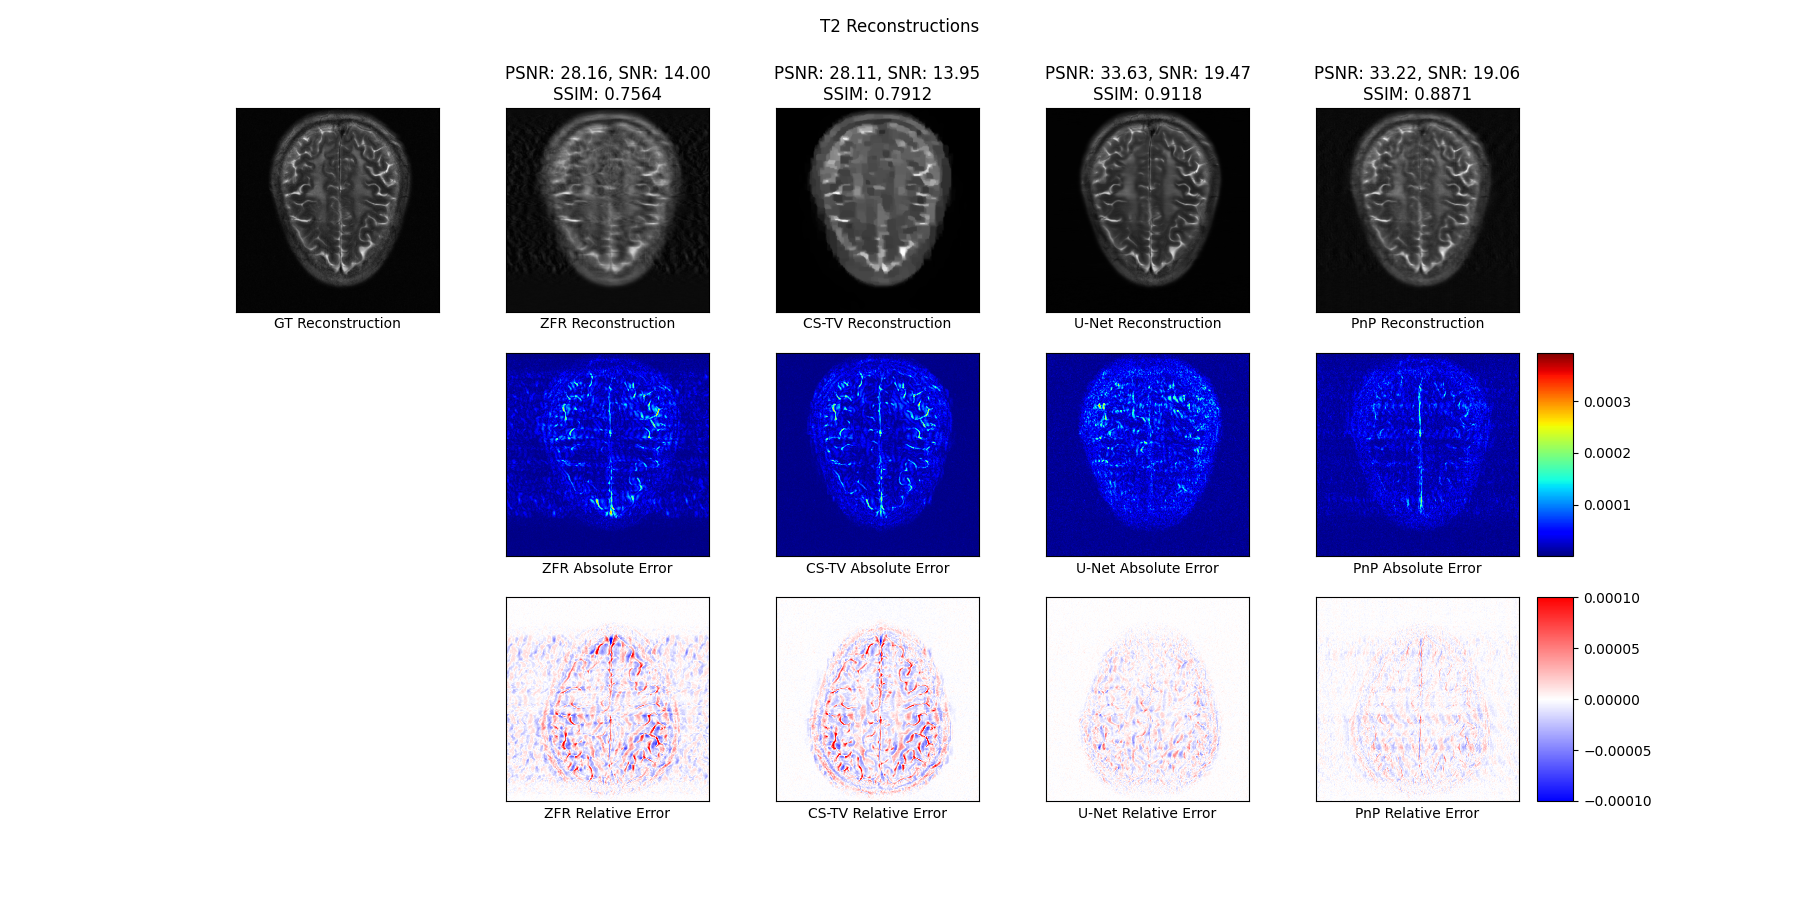
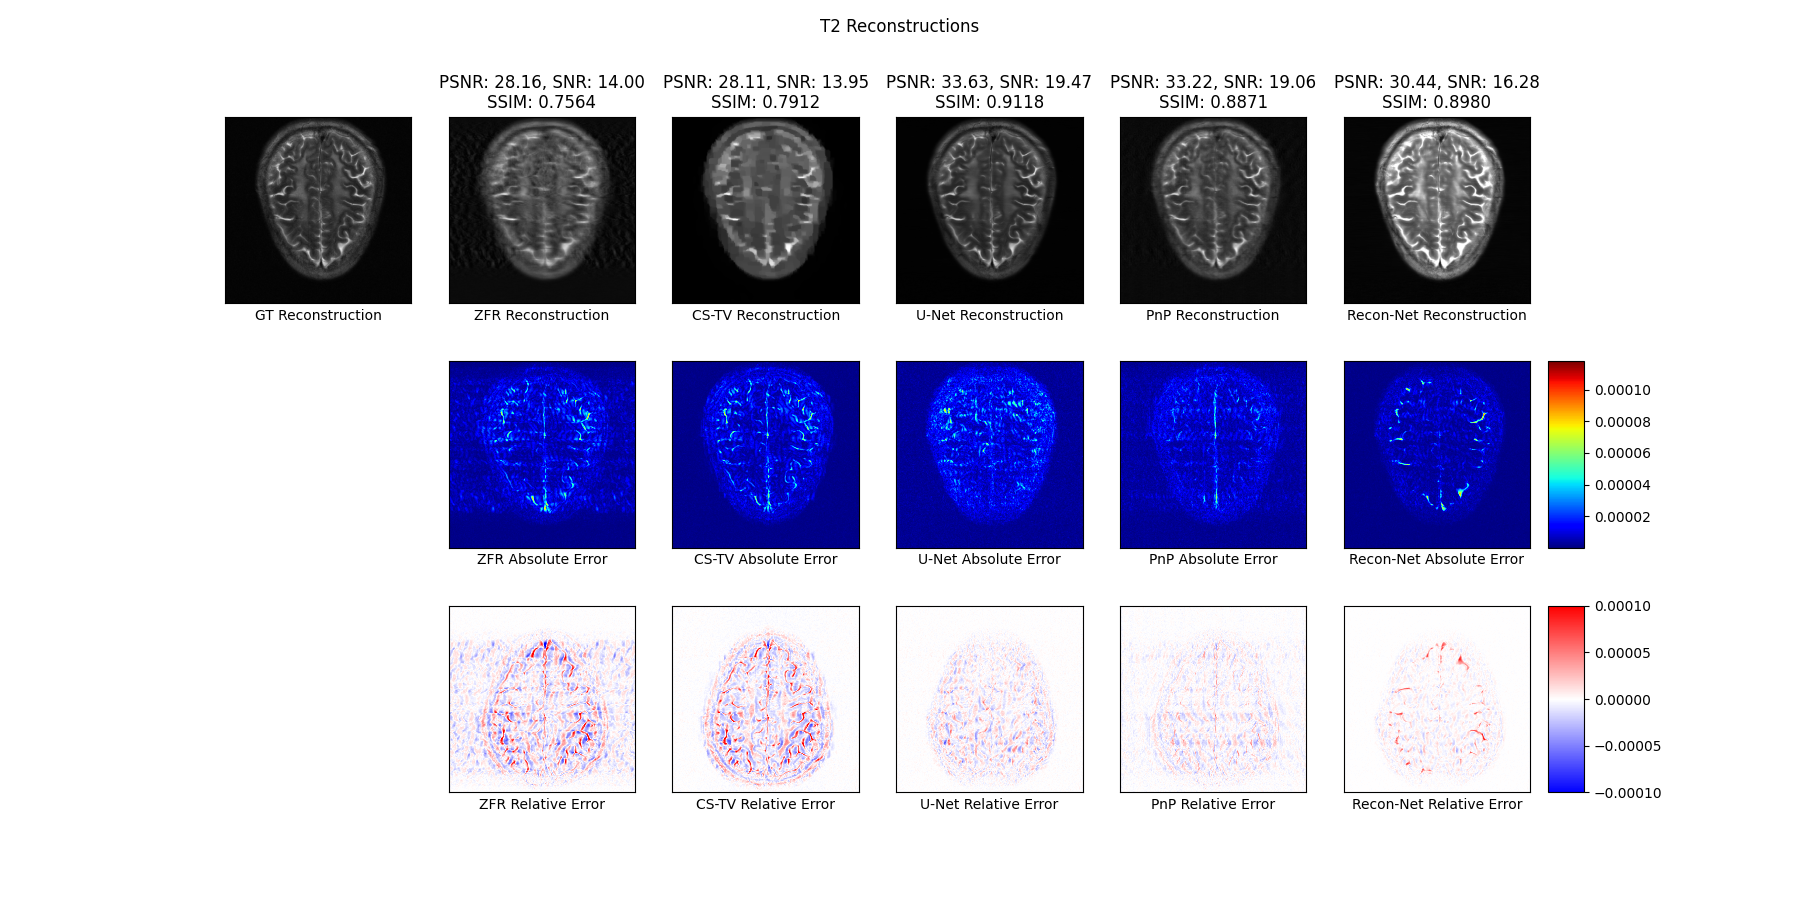
All changes for gan

Changed region(s): [[0.1244, 0.0622, 0.9333, 0.6533], [0.2489, 0.6844, 0.7156, 0.9333], [0.7467, 0.6533, 0.9333, 0.9333]]

diff --git a/cs-mri-gan-master/test_model.py b/cs-mri-gan-master/test_model.py
@@ -182,16 +182,24 @@ class DataTransform(object):
     def __call__(self, kspace, mask, target, attrs, fname, slice):
         kspace = T.to_tensor(kspace)
         mask = get_gro_mask(kspace.shape)
-        masked_kspace = (kspace * mask + 0.0)
-        # Inverse Fourier Transform to get zero filled solution
-        image = fastmri.ifft2c(masked_kspace)
-        image = fastmri.complex_abs(image)
+        masked_kspace = (kspace * mask) + 0.0
 
         target = fastmri.ifft2c(kspace)
-        target = T.complex_center_crop(target, (320,320))
-        target = fastmri.complex_abs(target)
+        image = fastmri.ifft2c(masked_kspace)
 
-        return (np.expand_dims(np.expand_dims(image.numpy(), axis=-1), axis=0), mask, target.numpy(), fname, slice)
+        target = fastmri.complex_abs(target).numpy() 
+        
+        max_val = np.max(target)
+
+        target = target / max_val * 2
+        image = tensor_to_complex_np(image) / max_val * 2
+
+        image = np.expand_dims(image, axis=-1)
+        usam_real = image.real
+        usam_imag = image.imag
+
+        u_sampled_data_2c = np.concatenate((usam_real, usam_imag), axis=-1)
+        return (u_sampled_data_2c, mask, target, fname, slice)
 
 def save_outputs(outputs, output_path):
     """Saves reconstruction outputs to output_path."""
@@ -214,20 +222,18 @@ def save_outputs(outputs, output_path):
 
 def test_method(idx, gen):
     zfr, mask, target, fname, slice_num = dataset[idx] 
+
     start_time = time.perf_counter()
-
-    prediction = gen4.predict(zfr)
-    prediction = np.squeeze(np.squeeze(prediction, axis=0), axis=-1)
-
-    plt.imshow(np.abs(prediction), cmap='gray')
-    plt.savefig('test_33.png')
+    prediction = gen4.predict(np.expand_dims(zfr, axis=0))
 
     recon_time = time.perf_counter() - start_time
+    psnr, ssim = metrics(np.expand_dims(target,axis=0),prediction[:,:,:,0],2.0)
+    print(f'PSNR: {psnr}, SSIM: {ssim}')
     
     return fname, slice_num, prediction, recon_time
 
 
-os.environ["CUDA_VISIBLE_DEVICES"] = "" #"0,1,2,3"
+os.environ["CUDA_VISIBLE_DEVICES"] = "0,1,2,3"
 
 if __name__ == '__main__':
     data_path = '/storage/fastMRI_brain/data/Matt_preprocessed_data/T2'
@@ -240,15 +246,41 @@ if __name__ == '__main__':
 
     outputs = []
 
-    inp_shape = (320, 320, 1)
+    inp_shape = (320, 320, 2)
     gen4 = generator(inp_shape=inp_shape, trainable=False)
 
-    filename = '/home/bendel.8/Git_Repos/ComparisonStudy/cs-mri-gan-master/gen_weights_a5_0033.h5'
+    filename = '/home/bendel.8/Git_Repos/ComparisonStudy/cs-mri-gan-master/gen_weights_a5_0303.h5'
     gen4.load_weights(filename)
 
-    #for i in range(len(dataset)):
-    outputs.append(test_method(0, gen4))
-    exit()
-    save_reconstructions(outputs, pathlib.Path('out'))
+    for i in range(len(dataset)):
+        outputs.append(test_method(i, gen4))
 
+    save_outputs(outputs, pathlib.Path('out'))
 
+'''
+data_path = 'testing_gt.pickle'  # Ground truth
+usam_path = 'testing_usamp.pickle'  # Zero-filled reconstructions
+
+df = open(data_path, 'rb')
+uf = open(usam_path, 'rb')
+
+dataset_real = np.asarray(pickle.load(df), dtype='float32')
+print(f'REAL IMAGES: {len(dataset_real)}, SHAPE: {dataset_real[0].shape}')
+
+u_sampled_data = np.expand_dims(pickle.load(uf), axis=-1)
+usam_real = u_sampled_data.real
+usam_imag = u_sampled_data.imag
+
+u_sampled_data_2c = np.concatenate((usam_real, usam_imag), axis=-1)
+print(f'USAMP IMAGES: {len(u_sampled_data_2c)}, SHAPE: {u_sampled_data_2c[0].shape}')
+
+inp_shape = (320, 320, 2)
+gen4 = generator(inp_shape=inp_shape, trainable=False)
+
+filename = '/home/bendel.8/Git_Repos/ComparisonStudy/cs-mri-gan-master/gen_weights_a5_0303.h5'
+gen4.load_weights(filename)
+
+preds = gen4.predict(u_sampled_data_2c)
+psnr, ssim = metrics(dataset_real, preds[:,:,:,0], 2.0)
+print(psnr)
+'''

diff --git a/generate_plots.py b/generate_plots.py
@@ -10,7 +10,7 @@ from pathlib import Path
 os.environ['KMP_DUPLICATE_LIB_OK']='True'
 
 rows = 3
-cols = 5
+cols = 6
 
 def get_psnr(gt, pred):
     maxval = gt.max()
@@ -86,7 +86,9 @@ for fname in tqdm(list(data_dir.glob("*.h5"))):
             h5py.File(f'/home/bendel.8/Git_Repos/ComparisonStudy/base_cs/out/{file_name}', 'r') as recons, \
                 h5py.File(f'/home/bendel.8/Git_Repos/ComparisonStudy/zero_filled/out/{file_name}') as zf, \
                     h5py.File(f'/home/bendel.8/Git_Repos/ComparisonStudy/unet/out/{file_name}') as unet_im, \
-                        h5py.File(f'/home/bendel.8/Git_Repos/ComparisonStudy/pnp/out/{file_name}') as pnp_im:
+                        h5py.File(f'/home/bendel.8/Git_Repos/ComparisonStudy/pnp/out/{file_name}') as pnp_im, \
+                            h5py.File(f'/home/bendel.8/Git_Repos/ComparisonStudy/cs-mri-gan-master/out/{file_name}') as gan_im:
+
         ind = transforms.to_tensor(target['kspace'][()]).shape[0] // 2
         need_cropped = False
         crop_size = (320, 320)
@@ -102,12 +104,14 @@ for fname in tqdm(list(data_dir.glob("*.h5"))):
         recons = recons["reconstruction"][()][ind]
         pnp_im = pnp_im["reconstruction"][()][ind]
         unet_im = unet_im["reconstruction"][()][ind]
+        gan_im = np.squeeze(np.squeeze(gan_im["reconstruction"][()][ind], axis=0), axis=-1) * np.max(target) / 2
 
         if need_cropped:
             zfr = transforms.center_crop(zfr, crop_size)
             recons = transforms.center_crop(recons, crop_size)
             pnp_im = transforms.center_crop(pnp_im, crop_size)
             unet_im = transforms.center_crop(unet_im, crop_size)
+            gan_im = transforms.center_crop(gan_im, crop_size)
 
         gt_max = target.max()
         fig = plt.figure(figsize=(18,9))
@@ -117,17 +121,20 @@ for fname in tqdm(list(data_dir.glob("*.h5"))):
         generate_image(fig, target, recons, 'CS-TV', 3)
         generate_image(fig, target, unet_im, 'U-Net', 4)
         generate_image(fig, target, pnp_im, 'PnP', 5)
+        generate_image(fig, target, gan_im, 'Recon-Net', 6)
 
-        generate_error_map(fig, target, zfr, 'ZFR', 7)
-        generate_error_map(fig, target, recons, 'CS-TV', 8)
-        generate_error_map(fig, target, unet_im, 'U-Net', 9)
-        im, ax = generate_error_map(fig, target, pnp_im, 'PnP', 10)
+        generate_error_map(fig, target, zfr, 'ZFR', 8)
+        generate_error_map(fig, target, recons, 'CS-TV', 9)
+        generate_error_map(fig, target, unet_im, 'U-Net', 10)
+        generate_error_map(fig, target, pnp_im, 'PnP', 11)
+        im, ax = generate_error_map(fig, target, gan_im, 'Recon-Net', 12, k=0.5)
         get_colorbar(fig, im, ax)
 
-        generate_error_map(fig, target, zfr, 'ZFR', 12, relative=True, k=1)
-        generate_error_map(fig, target, recons, 'CS-TV', 13, relative=True, k=1)
-        generate_error_map(fig, target, unet_im, 'U-Net', 14, relative=True, k=1)
-        im, ax = generate_error_map(fig, target, pnp_im, 'PnP', 15, relative=True, k=1)
+        generate_error_map(fig, target, zfr, 'ZFR', 14, relative=True, k=1)
+        generate_error_map(fig, target, recons, 'CS-TV', 15, relative=True, k=1)
+        generate_error_map(fig, target, unet_im, 'U-Net', 16, relative=True, k=1)
+        generate_error_map(fig, target, pnp_im, 'PnP', 17, relative=True, k=1)
+        im, ax = generate_error_map(fig, target, gan_im, 'Recon-Net', 18, relative=True, k=0.5)
         get_colorbar(fig, im, ax)
 
         plt.savefig(f'/home/bendel.8/Git_Repos/ComparisonStudy/plots/images/recons_{count}.png')

diff --git a/cs-mri-gan-master/training_model.py b/cs-mri-gan-master/training_model.py
@@ -251,6 +251,7 @@ def train(g_par, d_par, gan_model, dataset_real, u_sampled_data, n_epochs, n_bat
         for j in range(bat_per_epo):
 
             # training the discriminator
+            print_pic = False
             for k in range(n_critic):
                 ix = np.random.randint(0, dataset_real.shape[0], half_batch)
 
@@ -260,7 +261,12 @@ def train(g_par, d_par, gan_model, dataset_real, u_sampled_data, n_epochs, n_bat
                 ix_1 = np.random.randint(0, u_sampled_data.shape[0], half_batch)
                 X_fake = g_par.predict(u_sampled_data[ix_1])
                 y_fake = -np.ones((half_batch, n_patch, n_patch, 1))
-
+                
+                if not print and i % 5 == 0:
+                    plt.figure()
+                    plt.imshow()
+                    plt.savefig()
+                    print_pic = True
                 X, y = np.vstack((X_real, X_fake)), np.vstack((y_real, y_fake))
                 d_loss, accuracy = d_par.train_on_batch(X, y)
 
@@ -268,6 +274,7 @@ def train(g_par, d_par, gan_model, dataset_real, u_sampled_data, n_epochs, n_bat
                     weights = l.get_weights()
                     weights = [np.clip(w, -clip_val, clip_val) for w in weights]
                     l.set_weights(weights)
+
             # training the generator
 
             ix = np.random.randint(0, dataset_real.shape[0], n_batch)
@@ -277,12 +284,13 @@ def train(g_par, d_par, gan_model, dataset_real, u_sampled_data, n_epochs, n_bat
 
             g_loss = gan_model.train_on_batch([X_gen_inp], [y_gan, X_r, X_r])
             f.write('>%d, %d/%d, d=%.3f, acc = %.3f,  w=%.3f,  mae=%.3f,  mssim=%.3f, g=%.3f' % (
-            i + 1, j + 1, bat_per_epo, d_loss, accuracy, g_loss[1], g_loss[2], g_loss[3], g_loss[0]))
+            i + 1, j + 1, bat_per_epo, d_loss, accuracy, g_loss[1], g_loss[2], g_loss[3], g_loss[0])) # NEEDS REVERTED TO i + 1
             f.write('\n')
             print('>%d, %d/%d, d=%.3f, acc = %.3f, g=%.3f' % (i + 1, j + 1, bat_per_epo, d_loss, accuracy, g_loss[0]))
-        filename = '/home/bendel.8/Git_Repos/ComparisonStudy/cs-mri-gan-master/gen_weights_a5_%04d.h5' % (i + 1)
-        g_save = g_par.get_layer('model_3')
-        g_save.save_weights(filename)
+        filename = '/home/bendel.8/Git_Repos/ComparisonStudy/cs-mri-gan-master/gen_weights_a5_%04d.h5' % (i + 1) # NEEDS REVERTED TO i + 1
+        if i % 5 == 0:
+            g_save = g_par.get_layer('model_3')
+            g_save.save_weights(filename)
     f.close()
 
 
@@ -299,7 +307,6 @@ os.environ["CUDA_VISIBLE_DEVICES"] = "0,1,2,3"
 
 d_model = discriminator(inp_shape=in_shape_dis, trainable=True)
 d_par = multi_gpu_model(d_model, gpus=4, cpu_relocation = True)  # for multi-gpu training
-d_par.summary()
 opt = Adam(lr=0.0002, beta_1=0.5)
 d_par.compile(loss=wloss, optimizer=opt, metrics=[accw])
 

diff --git a/cs-mri-gan-master/metrics.py b/cs-mri-gan-master/metrics.py
@@ -1,15 +1,25 @@
 from skimage import measure
-
+import matplotlib.pyplot as plt
+import numpy as np
 
 def metrics(true_tensor, test_tensor,max_val):
     psnrt = 0
     ssimt = 0
+    plot = False
     for i in range(true_tensor.shape[0]): 
+        psnr = measure.compare_psnr(true_tensor[i,:,:], test_tensor[i,:,:],data_range=max_val)
+        if psnr < 26 and not plot:
+            plot = True
+            plt.figure()
+            plt.imshow(np.abs(test_tensor[i,:,:]), cmap='gray')
+            plt.savefig('31db_recon.png')
+            plt.figure()
+            plt.imshow(np.abs(true_tensor[i,:,:]), cmap='gray')
+            plt.savefig('31db_gt.png')
 
-    	 psnr = measure.compare_psnr(true_tensor[i,:,:], test_tensor[i,:,:],data_range=max_val)
-    	 ssim = measure.compare_ssim(true_tensor[i,:,:], test_tensor[i,:,:],data_range=max_val)
-    	 psnrt = psnrt+psnr
-    	 ssimt = ssimt+ssim
+        ssim = measure.compare_ssim(true_tensor[i,:,:], test_tensor[i,:,:],data_range=max_val)
+        psnrt = psnrt+psnr
+        ssimt = ssimt+ssim
 
     psnrt = psnrt/true_tensor.shape[0]
     ssimt = ssimt/true_tensor.shape[0]

diff --git a/cs-mri-gan-master/dataset_load.py b/cs-mri-gan-master/dataset_load.py
@@ -44,12 +44,9 @@ def load_a(path, num):
                     usamp_data.append(slice_us)
 
         return np.asarray(data), np.asarray(usamp_data)
-
+'''
 data = Path('/storage/fastMRI_brain/data/Matt_preprocessed_data/T2/singlecoil_train')
 train_gt, train_us = load_a(data,0)
-
-#data = Path('/storage/fastMRI_brain/data/multicoil_val')
-#train_gt_2, train_us_2 = load_a(data,0)
 
 print(f"TOTAL NUMBER OF TRAINING IMAGES: {train_gt.shape[0]}")
 
@@ -58,10 +55,9 @@ with open(os.path.join(save_path,'training_gt.pickle'),'wb') as f:
 
 with open(os.path.join(save_path,'training_usamp.pickle'),'wb') as f:
     pickle.dump(train_us,f,protocol=4)
-
 '''
-#for testing data
 
+#for testing data
 test_path = Path('/storage/fastMRI_brain/data/Matt_preprocessed_data/T2/singlecoil_test')
 test_gt, test_us = load_a(test_path, 0)
 
@@ -70,4 +66,4 @@ with open(os.path.join(save_path,'testing_gt.pickle'),'wb') as f:
 
 with open(os.path.join(save_path, 'testing_usamp.pickle'), 'wb') as f:
     pickle.dump(test_us, f, protocol=4)
-'''
+

diff --git a/eval.py b/eval.py
@@ -120,7 +120,7 @@ def evaluate(args, recons_key):
             target = transforms.to_tensor(target['kspace'][()])
             target = fastmri.ifft2c(target)
             target = fastmri.complex_abs(target).numpy()
-            recons = recons["reconstruction"][()]
+            recons = np.squeeze(np.squeeze(recons["reconstruction"][()],axis=-1),axis=1) * np.max(target) / 2#recons["reconstruction"][()]
             for i in range(target.shape[0]):
                 metrics.push(target[i], recons[i])
 
@@ -206,5 +206,5 @@ if __name__ == "__main__":
     print(metrics)
     get_avg_slice_time(args)
     #save_histogram('PSNR', all_psnr, args.method)
-    #save_histogram('SNR', all_snr, args.method)
-    save_histogram('SSIM', all_ssim, args.method)
+    save_histogram('SNR', all_snr, args.method)
+    #save_histogram('SSIM', all_ssim, args.method)
